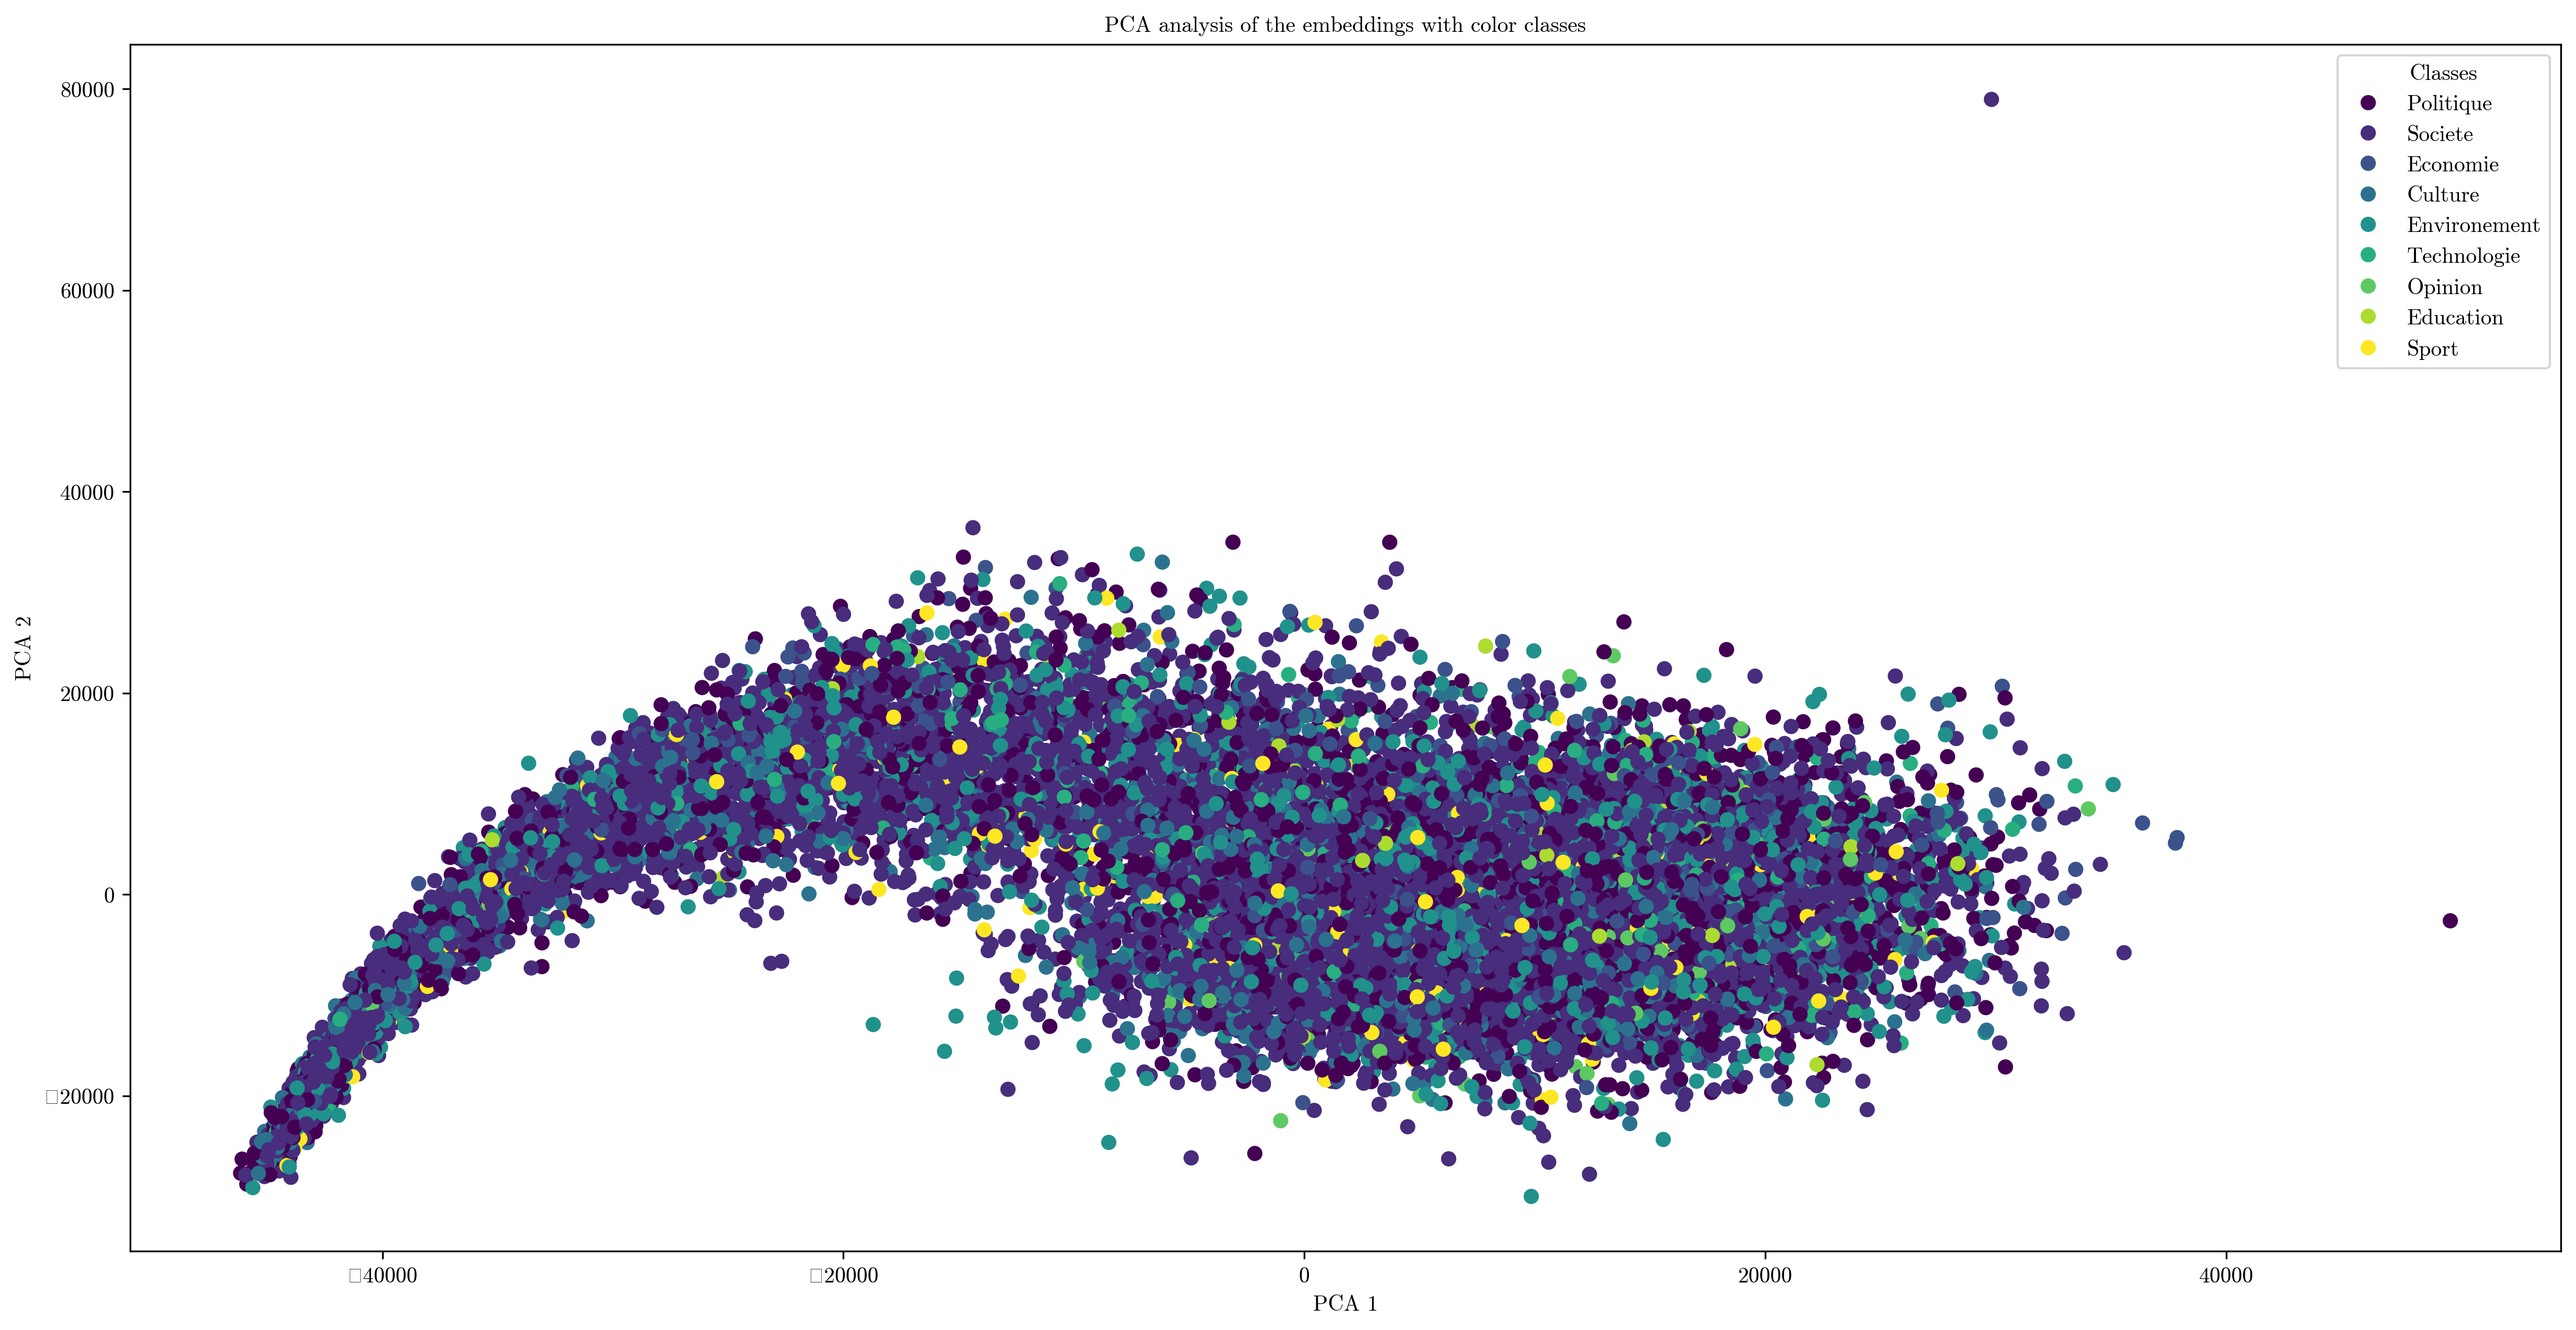
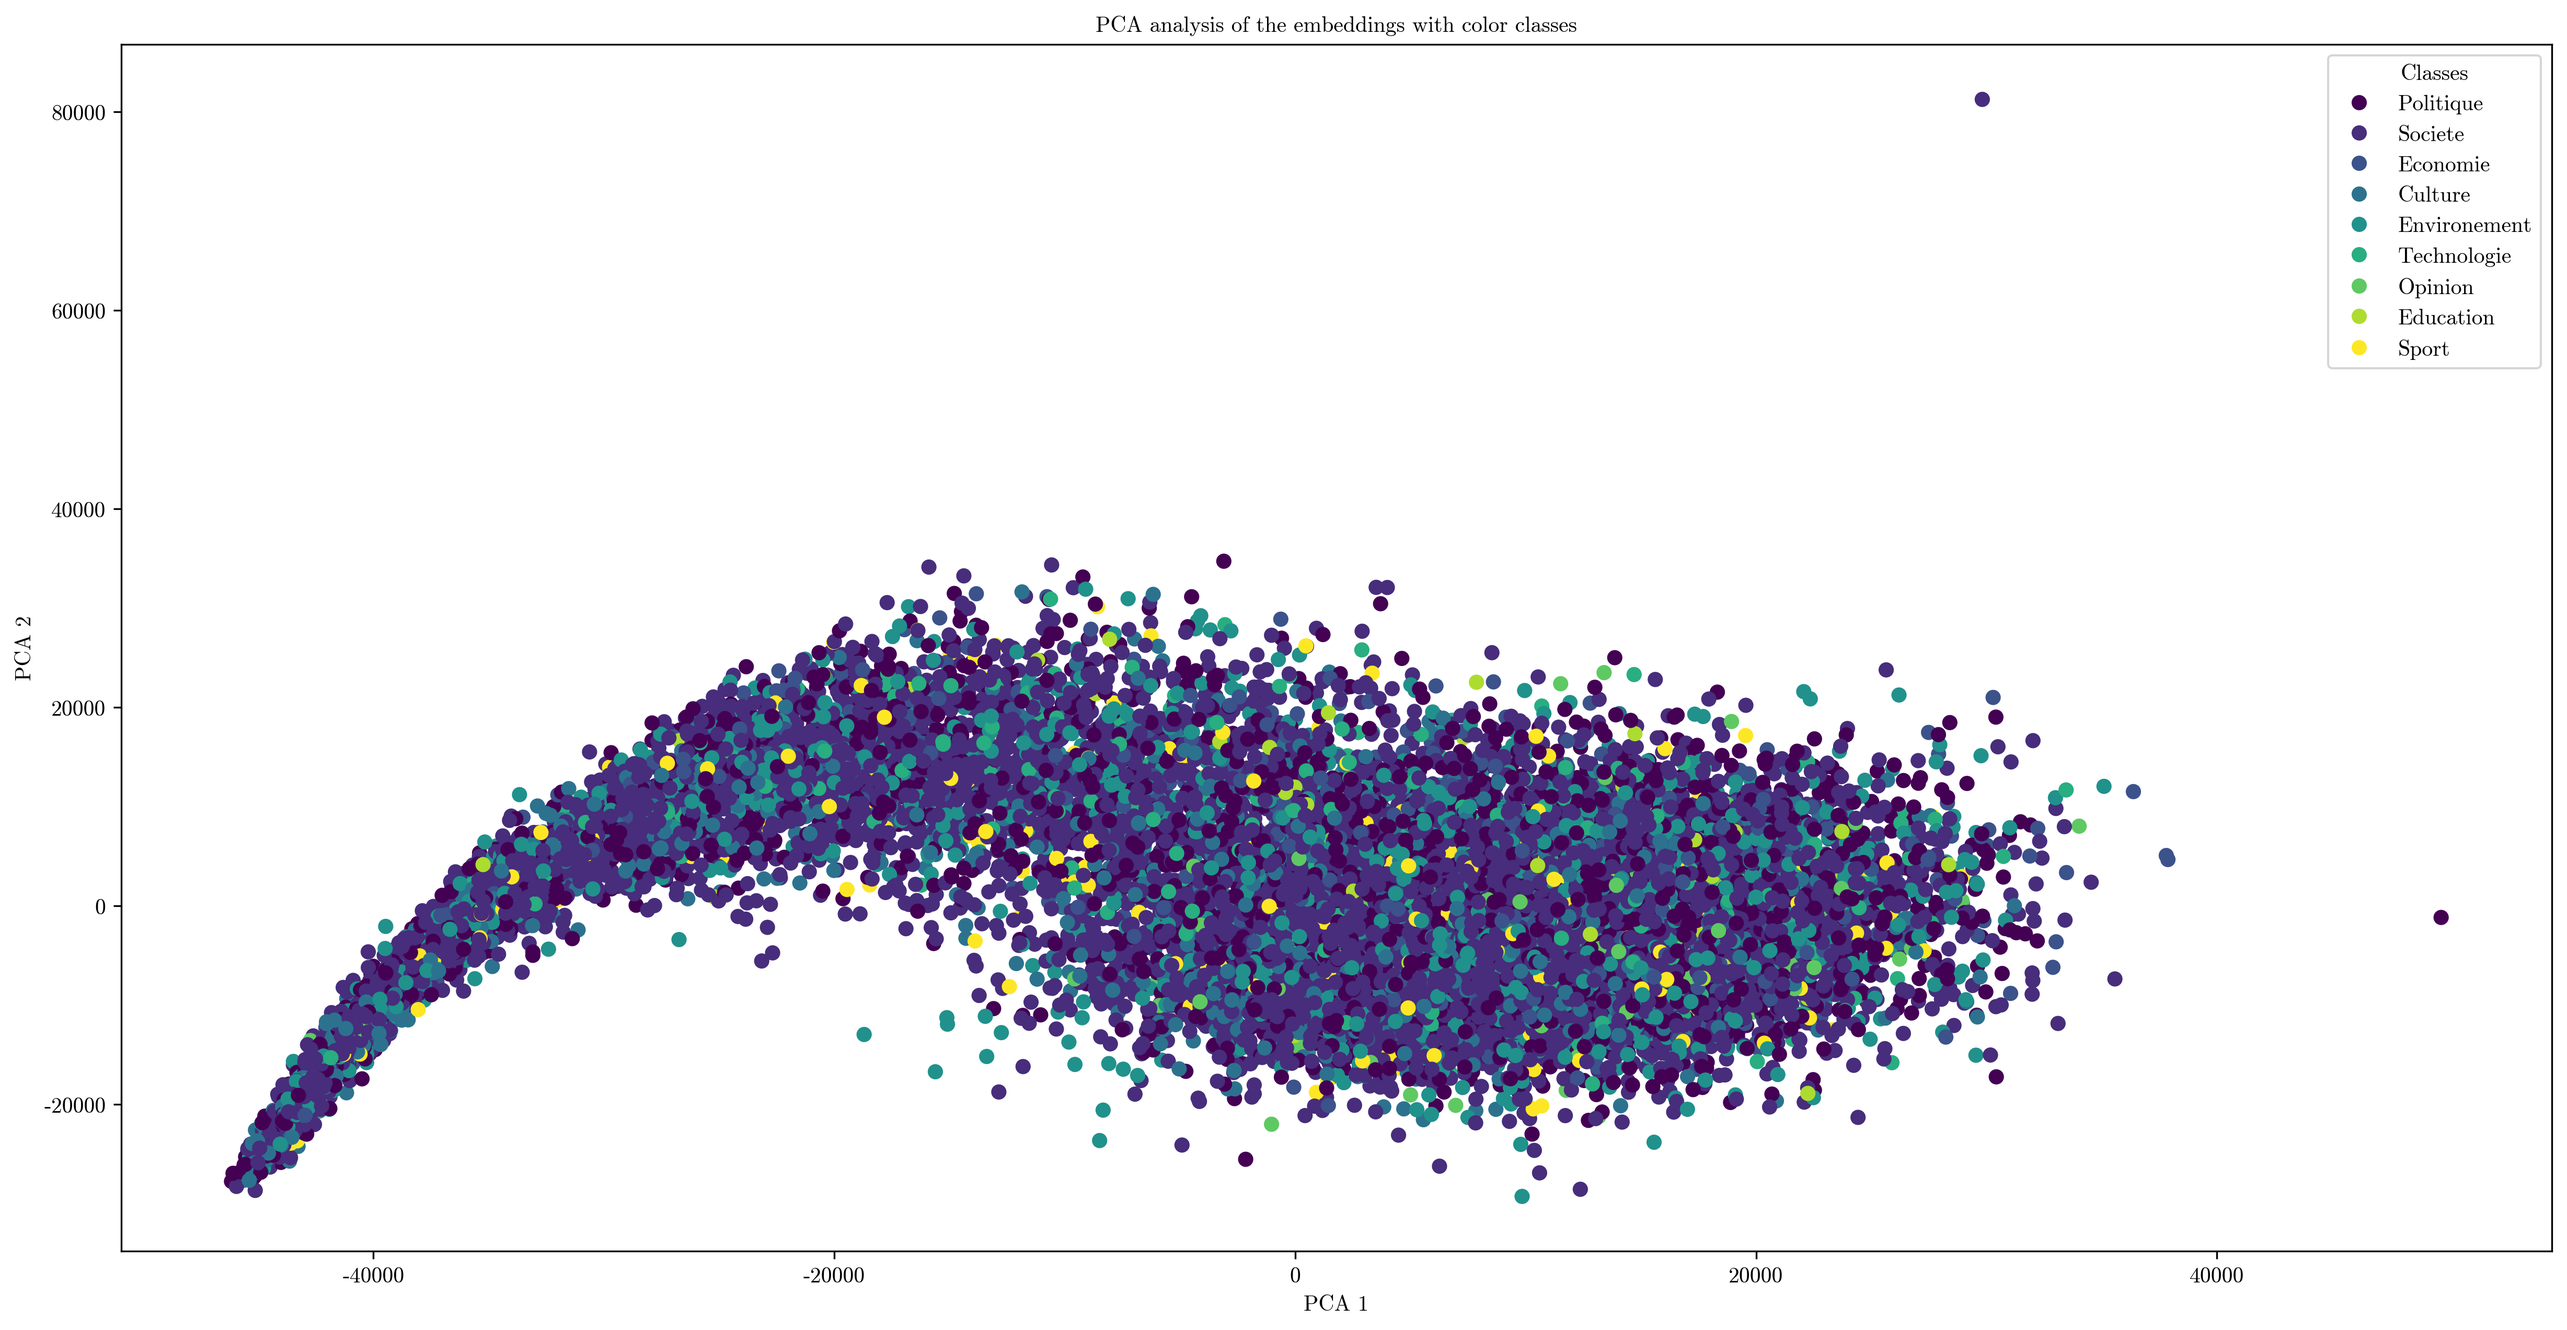
add rouge per label evaluation

diff --git a/run_dataset.py b/run_dataset.py
@@ -2,11 +2,16 @@
 
 import pandas as pd
 import numpy as np
+
+from tqdm import tqdm
+
 from src.load_data import load_data
 from src.load_models import device, t5_base_fr_sum_cnndm
 from src.labels import labels_classification
 
-from src.evaluation import embeddings
+from src.evaluation import embeddings, t5_summary
+
+from rouge_score import rouge_scorer
 
 from sklearn.decomposition import PCA
 from matplotlib import pyplot as plt
@@ -65,6 +70,7 @@ def labels_analysis():
 
     _, axs = plt.subplots(1, 3, figsize=(20, 5))
     plt.rcParams["font.family"] = "cmr10"
+    plt.rc("axes", unicode_minus=False)
 
     # pie plot
     train_df["genre"].value_counts().plot.pie(
@@ -96,7 +102,8 @@ def add_embeddings():
     TEST_PATH = "data/test_labels.csv"
 
     train_df, validation_df, test_df = load_data(TRAIN_PATH, VALIDATION_PATH, TEST_PATH)
-    _, tokenizer = t5_base_fr_sum_cnndm()
+    # _, tokenizer = t5_base_fr_sum_cnndm()
+    tokenizer = AutoTokenizer.from_pretrained("flaubert/flaubert_base_cased")
 
     # generate the embeddings with the tokenizer
     train_df["embeddings"] = embeddings(train_df.text, tokenizer, 16)
@@ -104,9 +111,31 @@ def add_embeddings():
     test_df["embeddings"] = embeddings(test_df.text, tokenizer, 16)
 
     # save the dataframes
-    train_df.to_csv("data/train_df_embeddings.csv", index=False)
-    validation_df.to_csv("data/validation_df_embeddings.csv", index=False)
-    test_df.to_csv("data/test_df_embeddings.csv", index=False)
+    train_df.to_csv("data/train_df_embeddings_flaubert.csv", index=False)
+    validation_df.to_csv("data/validation_df_embeddings_flaubert.csv", index=False)
+    test_df.to_csv("data/test_df_embeddings_flaubert.csv", index=False)
+
+
+def add_generated_title():
+    """Add generated title to the dataframes"""
+    TRAIN_PATH = "data/train_df_embeddings.csv"
+    VALIDATION_PATH = "data/validation_df_embeddings.csv"
+    TEST_PATH = "data/test_df_embeddings.csv"
+    _, validation_df, _ = load_data(TRAIN_PATH, VALIDATION_PATH, TEST_PATH)
+    model, tokenizer = t5_base_fr_sum_cnndm()
+
+    DEVICE = device()
+    model = model.to(DEVICE)
+
+    validation_summaries = t5_summary(
+        validation_df.text, tokenizer, model, batch_size=64
+    )
+
+    for i, summary in tqdm(validation_summaries):
+        validation_df.at[i, "generated_title"] = summary
+
+    print(validation_df.head())
+    validation_df.to_csv("data/validation_df_generated.csv", index=False)
 
 
 def pca_analysis(save: bool = False):
@@ -128,7 +157,6 @@ def pca_analysis(save: bool = False):
     total_df["color"] = total_df["genre"].apply(lambda x: classes.tolist().index(x))
 
     pca = PCA(n_components=2)
-    # total_df = train_df.append(validation_df).append(test_df)
 
     print("Fitting PCA")
 
@@ -139,6 +167,7 @@ def pca_analysis(save: bool = False):
     X_pca = pca.fit_transform(X)
 
     plt.rcParams["font.family"] = "cmr10"
+    plt.rc("axes", unicode_minus=False)
 
     _ = plt.figure(figsize=(20, 10))
 
@@ -162,9 +191,95 @@ def pca_analysis(save: bool = False):
         total_df.to_csv("data/total_df_embeddings.csv", index=False)
 
 
+def pca_analysis_rouge(save: bool = False):
+    """Perform PCA analysis on the embeddings but color by rouge score"""
+    TRAIN_PATH = "data/train_df_embeddings.csv"
+    VALIDATION_PATH = "data/validation_df_generated.csv"
+    TEST_PATH = "data/test_df_embeddings.csv"
+
+    # Perfom only on the validation set for proper ROUGE score (avoid overfitting on train data)
+    _, validation_df, _ = load_data(TRAIN_PATH, VALIDATION_PATH, TEST_PATH)
+
+    # Compute the rouge score for eaach title
+    SCORER = rouge_scorer.RougeScorer(["rougeL"], use_stemmer=True)
+    rouge_scores = []
+    # We will only use the fmeasure of the scorer as we are graded on the fscore avg
+    for i, row in validation_df.iterrows():
+        rouge_scores.append(
+            SCORER.score(row.generated_title, row.titles)["rougeL"].fmeasure
+        )
+
+    validation_df["rouge_score"] = rouge_scores
+
+    if save:
+        validation_df.to_csv("data/validation_df_rouge.csv", index=False)
+
+    # Scale colors from BLUE (0) to RED (1) for the ROUGE score
+    max_score = validation_df["rouge_score"].max()
+    min_score = 0
+    validation_df["color"] = validation_df["rouge_score"]
+
+    pca = PCA(n_components=2)
+
+    print("Fitting PCA")
+
+    X = np.array(validation_df["embeddings"].apply(lambda x: x[1:-1].split(",")))
+    X = np.array([np.array(x) for x in X])
+    X = X.astype(float)
+
+    X_pca = pca.fit_transform(X)
+
+    plt.rcParams["font.family"] = "cmr10"
+    plt.rc("axes", unicode_minus=False)
+
+    _ = plt.figure(figsize=(20, 10))
+
+    scatter = plt.scatter(
+        X_pca[:, 0], X_pca[:, 1], c=validation_df["color"], cmap="coolwarm"
+    )
+    plt.xlabel("PCA 1", fontproperties="cmr10")
+    plt.ylabel("PCA 2", fontproperties="cmr10")
+
+    plt.title(
+        "PCA analysis of the embeddings with color ROUGE score",
+        fontproperties="cmr10",
+        fontsize=20,
+    )
+    plt.colorbar(scatter, label="ROUGE score")
+    plt.savefig("docs/pca_rouge.png", bbox_inches="tight", dpi=300)
+    # plt.show()
+    plt.clf()
+
+    # Now plot the ROUGE score distribution for each class
+    classes = validation_df["genre"].unique()
+    # span on 2 rows
+    fig, axs = plt.subplots(3, len(classes) // 3, figsize=(20, 10))
+    plt.rcParams["font.family"] = "cmr10"
+    plt.rc("axes", unicode_minus=False)
+
+    print(axs.shape)
+
+    plt.subplots_adjust(hspace=0.5)
+    for i, genre in enumerate(classes):
+        genre_df = validation_df[validation_df["genre"] == genre]
+        axs[i // 3, i % 3].hist(genre_df["rouge_score"], bins=20)
+        axs[i // 3, i % 3].set_title(genre, fontproperties="cmr10", fontsize=15)
+        axs[i // 3, i % 3].set_ylabel("Count")
+        axs[i // 3, i % 3].set_xlabel("ROUGE score")
+        axs[i // 3, i % 3].set_xlim(0, 1)
+
+    plt.suptitle(
+        "ROUGE score distribution for each class", fontproperties="cmr10", fontsize=20
+    )
+    plt.savefig("docs/rouge_distribution.png", bbox_inches="tight", dpi=300)
+    plt.show()
+
+
 if __name__ == "__main__":
     # generate_labels()
     # labels_analysis()
     # add_embeddings()
     # pca_analysis()
+    # add_generated_title()
+    pca_analysis_rouge()
     pass
